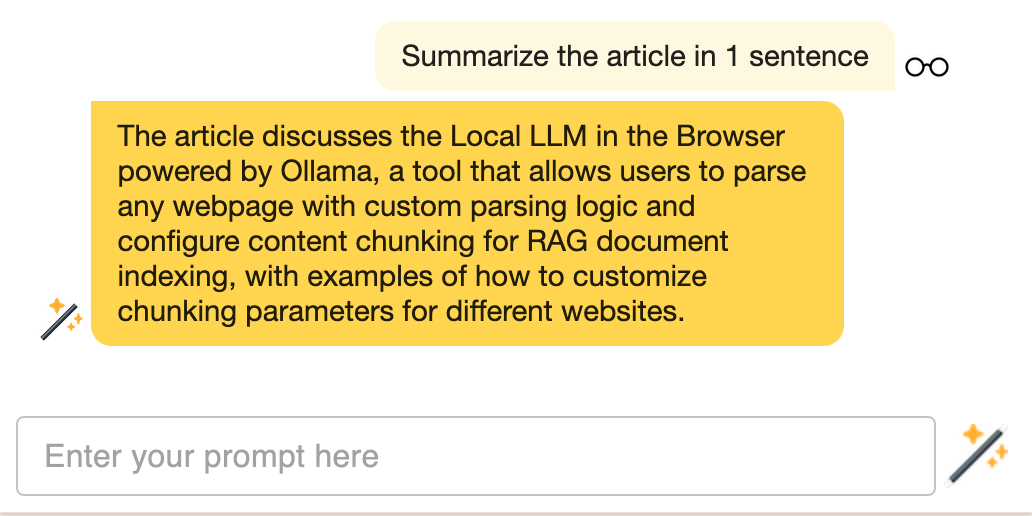
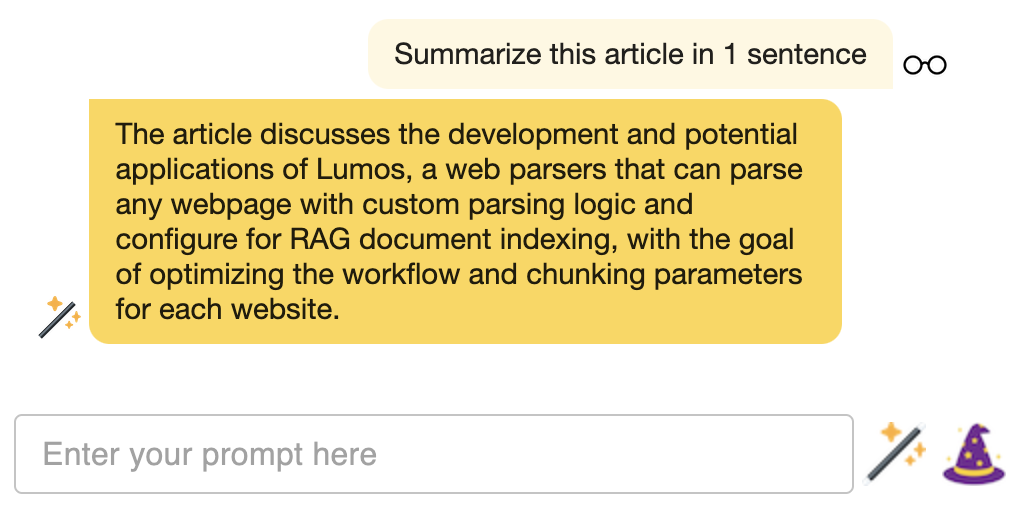
Add button to clear messages.

diff --git a/src/components/ChatBar.tsx b/src/components/ChatBar.tsx
@@ -1,5 +1,5 @@
 import { ChangeEvent, useEffect, useRef, useState } from "react";
-import { Box, IconButton, TextField } from "@mui/material";
+import { Box, IconButton, TextField, Tooltip } from "@mui/material";
 import { Avatar, ChatContainer, Message, MessageList, TypingIndicator } from "@chatscope/chat-ui-kit-react";
 import { contentConfig } from "../contentConfig";
 import '@chatscope/chat-ui-kit-styles/dist/default/styles.min.css';
@@ -121,6 +121,11 @@ const ChatBar: React.FC = () => {
     });
   };
 
+  const handleClearButtonClick = () => {
+    setMessages([]);
+    chrome.storage.session.set({ messages: [] });
+  };
+
   const handleBackgroundMessage = ((msg: any, error: any) => {
     if (msg.chunk) {
       setLoading1(false);
@@ -210,11 +215,20 @@ const ChatBar: React.FC = () => {
         />
         <IconButton
           className="submit-button"
-          disabled={submitDisabled}
+          disabled={submitDisabled || prompt === ""}
           onClick={handleSendButtonClick}
         >
           <img alt="" src="../assets/wand_32.png" />
         </IconButton>
+        <Tooltip title="Clear messages">
+          <IconButton
+            className="clear-button"
+            disabled={submitDisabled}
+            onClick={handleClearButtonClick}
+          >
+            <img alt="Clear messages" src="../assets/hat_32.png" />
+          </IconButton>
+        </Tooltip>
       </Box>
     </Box>
   );

diff --git a/src/components/ChatBar.css b/src/components/ChatBar.css
@@ -18,6 +18,12 @@
   height: 40px;
 }
 
+.clear-button {
+  flex: 1;
+  width: 40px;
+  height: 40px;
+}
+
 /* Override @chatscope default styles */
 .cs-message--outgoing .cs-message__content {
   background-color: #fff8e1 !important;
